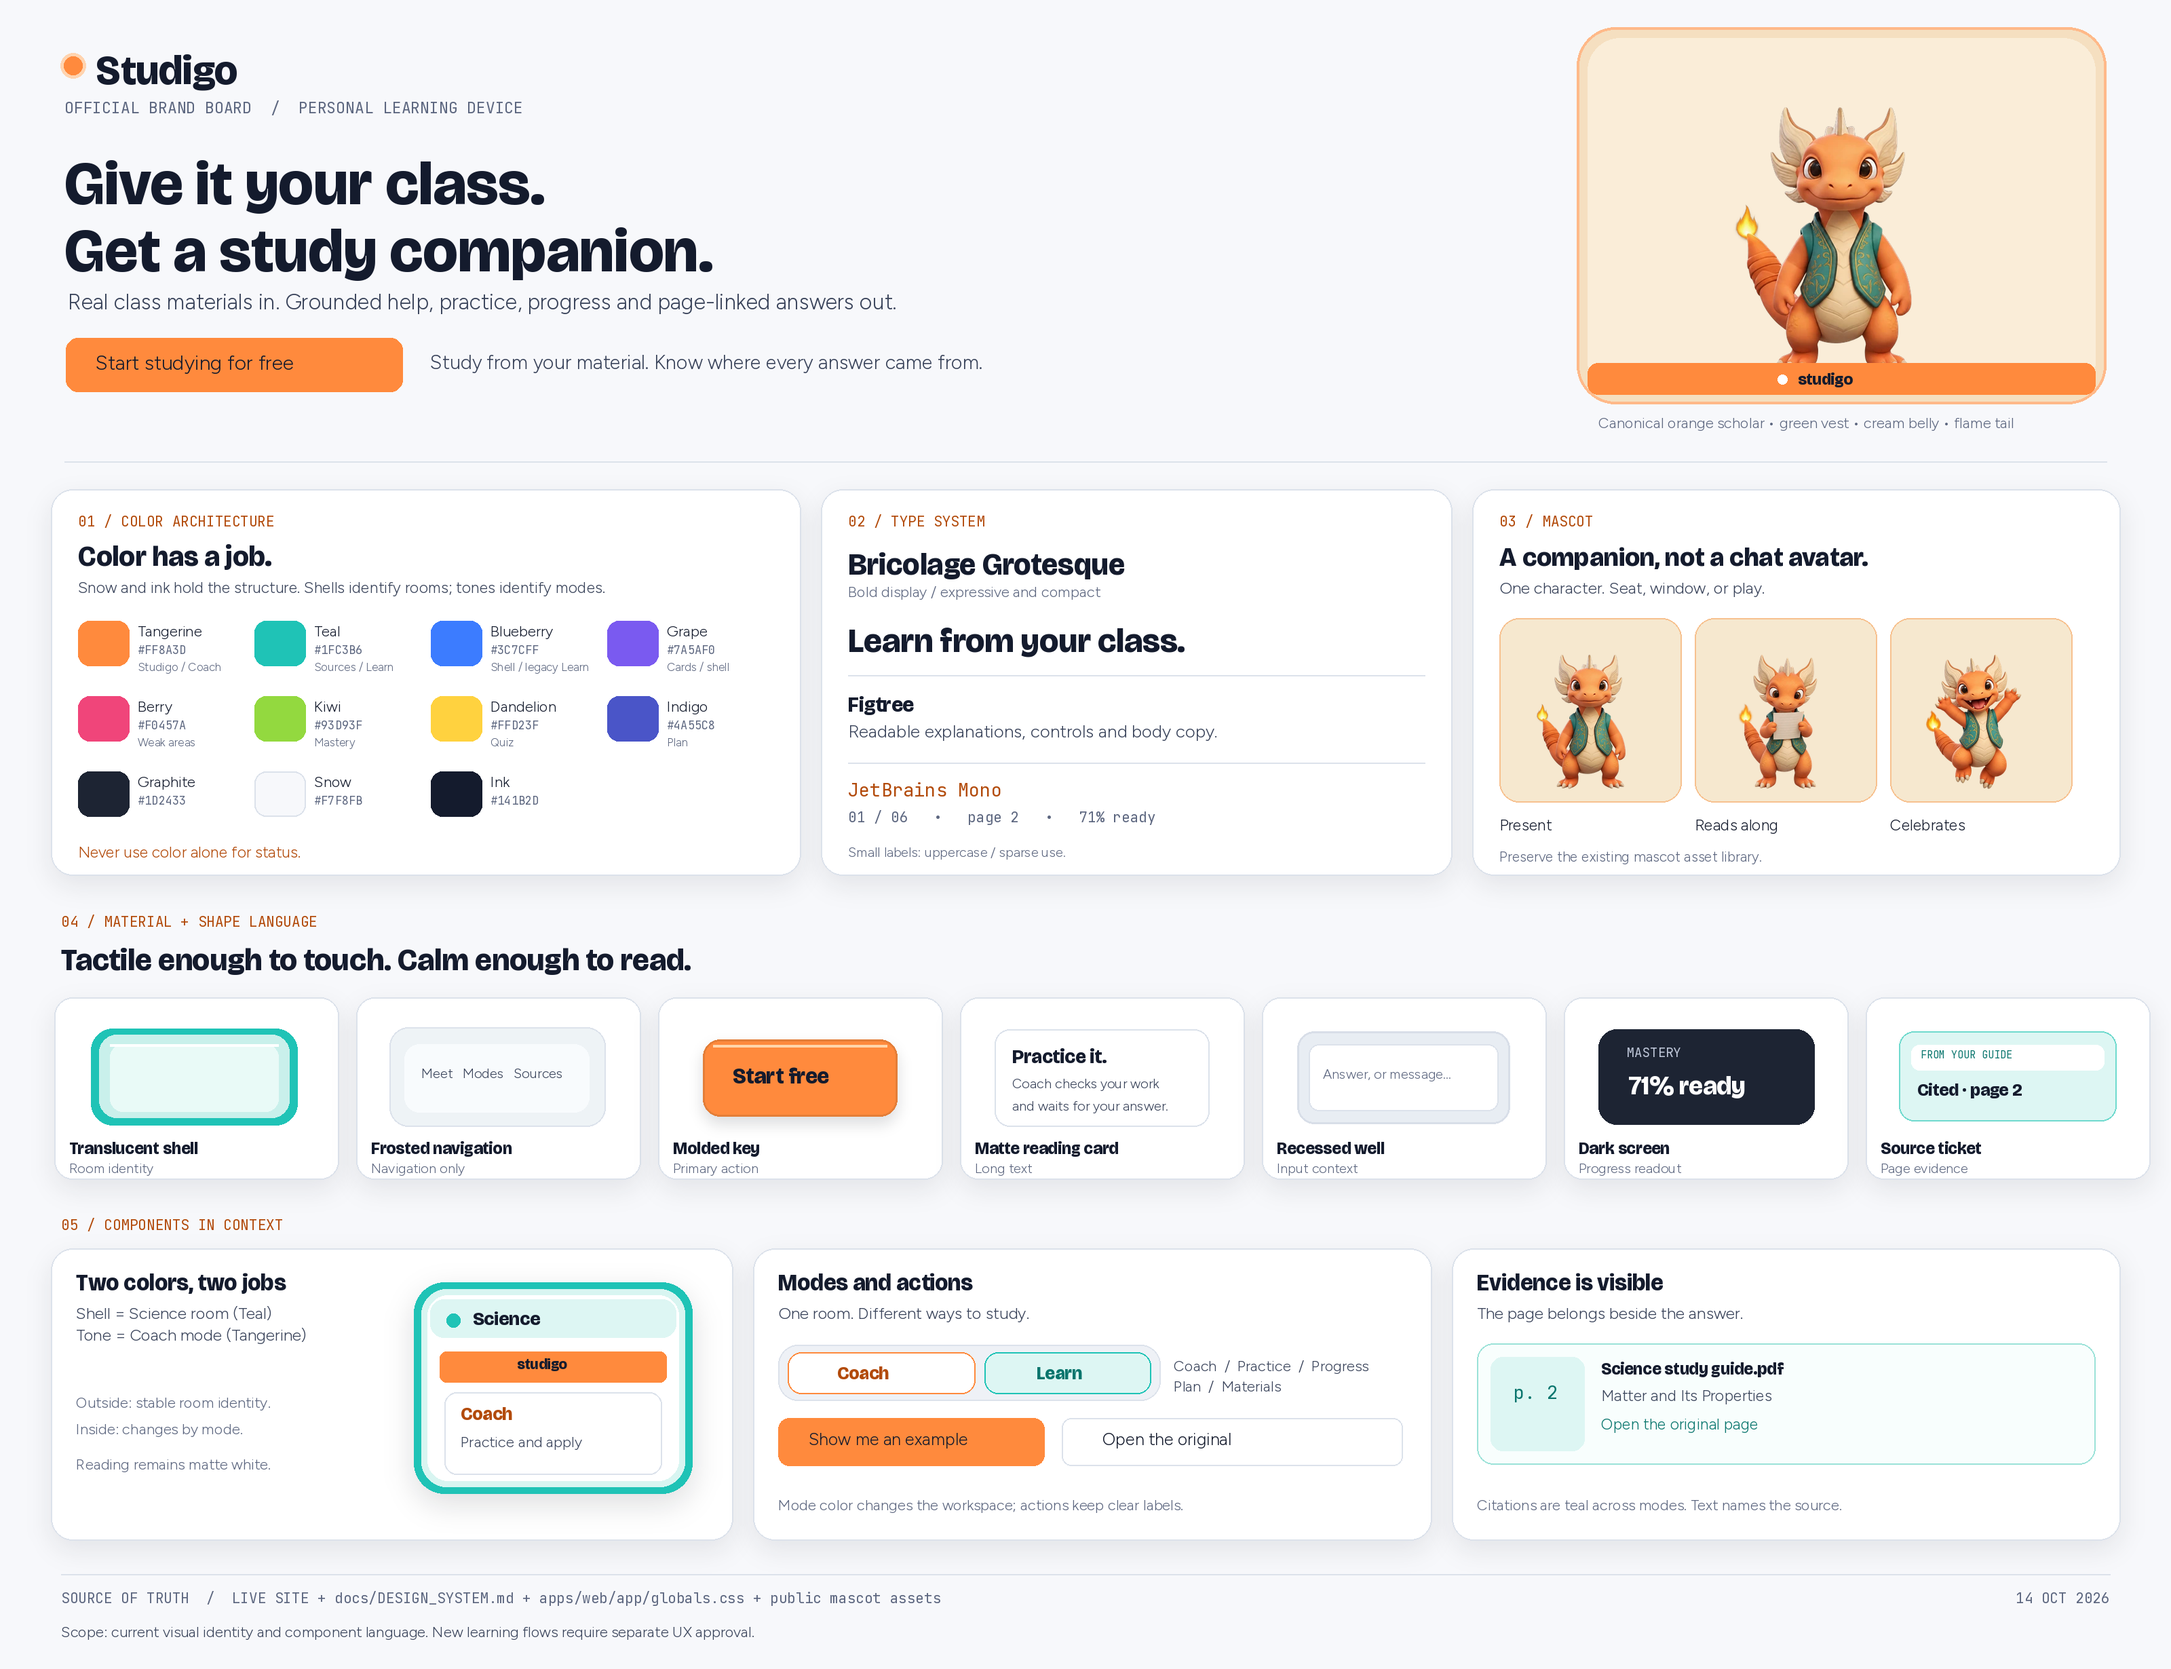
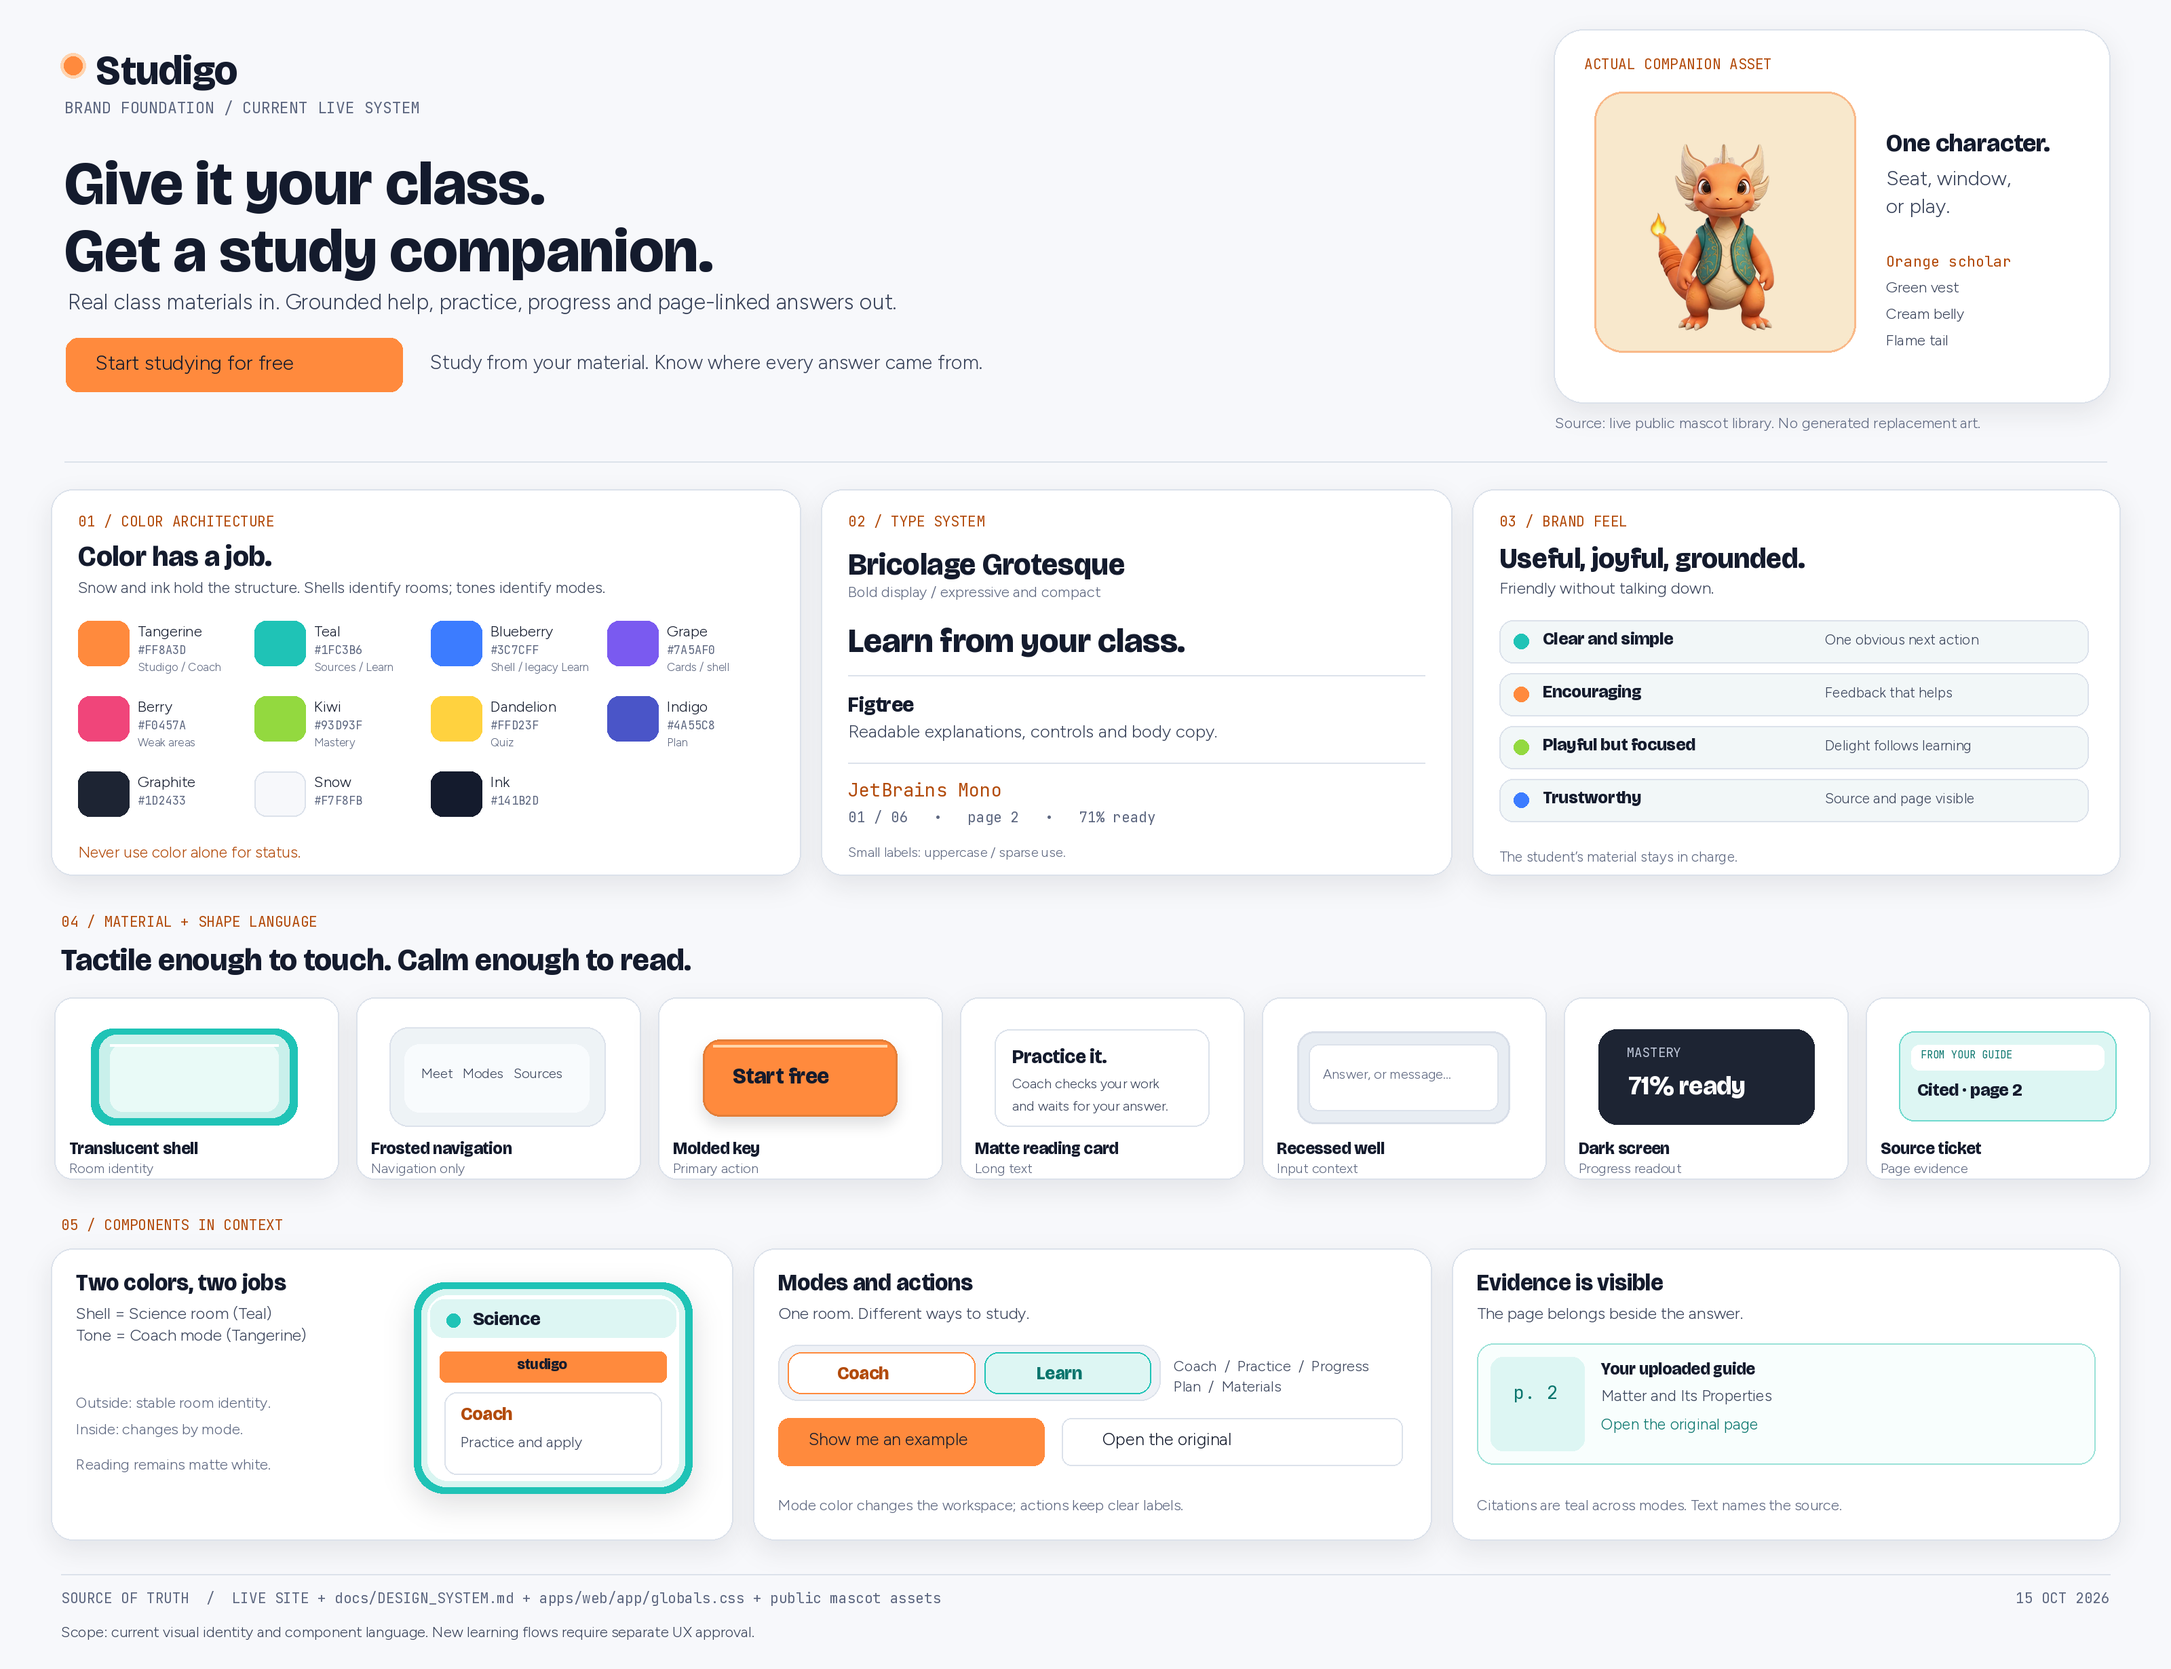
docs: refine brand board from annotated feedback

Changed region(s): [[0.7188, 0.0, 0.9688, 0.2472], [0.6875, 0.3089, 0.9688, 0.5252], [0.75, 0.8033, 0.8125, 0.8341]]

diff --git a/docs/brand/README.md b/docs/brand/README.md
@@ -2,8 +2,12 @@
 
 ## Official visual reference
 
-[Studigo Official Brand Board](./STUDIGO_OFFICIAL_BRAND_BOARD.png) is the approved visual source of truth for Studigo's current identity (approved 2026-10-14). It was built from the live production site, the V2 design system, the implemented CSS tokens, and the canonical public mascot assets.
+[Brand foundation](./STUDIGO_OFFICIAL_BRAND_BOARD.png) is the current visual source of truth for Studigo's identity. It reflects the live site, V2 design system, implemented CSS tokens, and public companion asset. The 2026-10-15 revision incorporates marked feedback: retain the palette, type, tactile surfaces, action language, and source evidence; avoid substitute character art and an invented app icon.
 
-Use the board for visual direction: wordmark treatment, color architecture, typography, mascot, tactile materials, component appearance, and source evidence. The [design system](../DESIGN_SYSTEM.md) provides the detailed token values, behavior, accessibility, responsive rules, and implementation guidance. When a proposed visual change conflicts with the approved board, update the board and design system together after review.
+Use the [design system](../DESIGN_SYSTEM.md) for exact tokens, behavior, accessibility, responsive rules, and implementation guidance. The board contains illustrative component specimens, not pixel-perfect product screenshots.
 
-The board depicts component specimens, not a promised future screen or a pixel-perfect screenshot. Guided learning flows and new UI require their own design and acceptance work. Preserve the canonical orange scholar asset library in `docs/brand/mascot/` and `apps/web/public/mascot/`.
+## Guided learning application
+
+[Guided learning brand application](./STUDIGO_GUIDED_LEARNING_BRAND_APPLICATION.png) shows proposed desktop and phone compositions for the planned learning journey. The screens are layout studies informed by the marked references and the guided learning UI plan. They are not shipped product screenshots. The orange and teal wordmark is an exploration, not an approved replacement logo. Source blocks intentionally use placeholders until an actual passage can be verified.
+
+The canonical orange scholar assets remain in `docs/brand/mascot/` and `apps/web/public/mascot/`. New guided learning flows still require product design and acceptance work.
